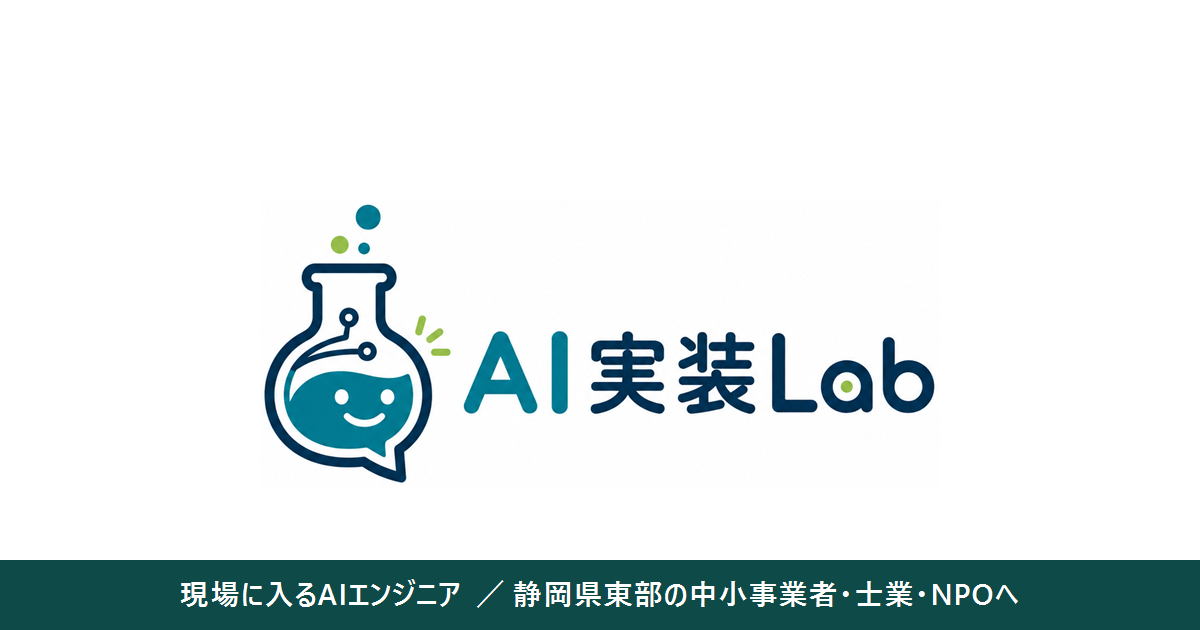
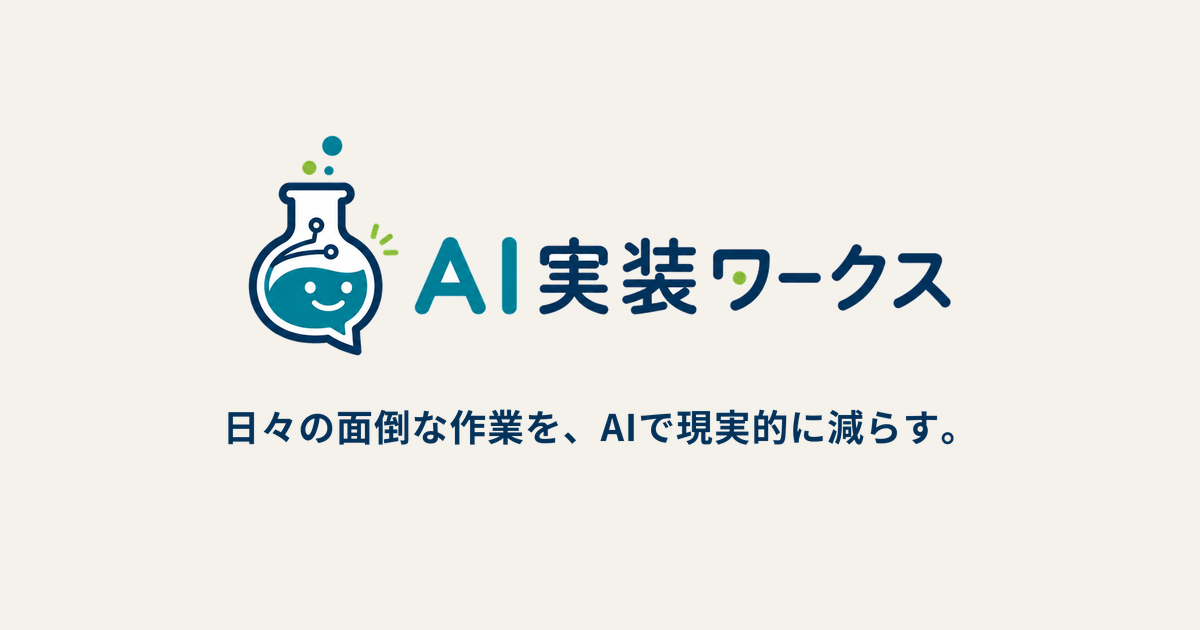
feat: 屋号をAI実装ワークスに変更、独自ドメインai.ss-po.com移行、新ロゴ組み込み

Changed region(s): [[0.185, 0.2111, 0.8017, 0.7841], [0.0, 0.8746, 1.0, 1.0]]

diff --git a/index.html b/index.html
@@ -3,15 +3,15 @@
 <head>
 <meta charset="UTF-8">
 <meta name="viewport" content="width=device-width, initial-scale=1.0">
-  <title>AI実装Lab｜数百万円だった専用システムを、手が届く値段で（静岡県東部）</title>
+  <title>AI実装ワークス｜数百万円だった専用システムを、手が届く値段で（静岡県東部）</title>
   <meta name="description" content="問い合わせ対応・予約受付・ホームページ、見積やメール作成まで。散らばった業務を整理し、あなたにちょうどのしくみに。これまで数百万円かかった専用システムも、AIで早く・安く。沼津をはじめとする静岡県東部の小さな会社・事務所・地域団体向け。">
   <meta name="google-site-verification" content="Ks7h_M3vuDzaMYysjTxfb04Es2Fv-enh5mPMZlBxzGc">
-  <link rel="canonical" href="https://tpsibelius-wq.github.io/ai-jisso-lab/">
+  <link rel="canonical" href="https://ai.ss-po.com/">
   <meta property="og:type" content="website">
-  <meta property="og:title" content="AI実装Lab｜数百万円だった専用システムを、手が届く値段で">
+  <meta property="og:title" content="AI実装ワークス｜数百万円だった専用システムを、手が届く値段で">
   <meta property="og:description" content="問い合わせ対応・予約受付・ホームページ、書類やメール作成まで。散らばった業務を整理し、あなたにちょうどのしくみを、AIで早く・安く。相談から実装まで、鈴木が担当します。">
-  <meta property="og:image" content="https://tpsibelius-wq.github.io/ai-jisso-lab/assets/ogp.png">
-  <meta property="og:url" content="https://tpsibelius-wq.github.io/ai-jisso-lab/">
+  <meta property="og:image" content="https://ai.ss-po.com/assets/ogp.png">
+  <meta property="og:url" content="https://ai.ss-po.com/">
   <meta name="twitter:card" content="summary_large_image">
   <link rel="icon" href="assets/logo-mark.png" type="image/png">
   <link rel="apple-touch-icon" href="assets/logo-mark.png">
@@ -425,7 +425,7 @@ a{color:inherit;text-decoration:none;}
   <aside class="side">
     <div class="side__top">
       <p class="side__tag">静岡県東部の中小企業・士業・NPOへ<br>現場に入るAIエンジニア</p>
-      <p class="side__brand"><img src="assets/logo-white-v2.png" alt="AI実装Lab" width="1133" height="478"></p>
+      <p class="side__brand"><img src="assets/logo-white-v2.png" alt="AI実装ワークス" width="1800" height="600"></p>
     </div>
     <div class="side__mid">
       <h1 class="side__lead"><span>数百万円だった</span><span>“専用システム”を、</span><span><span class="ac" style="display:inline">手が届く値段</span>で</span></h1>
@@ -554,7 +554,7 @@ a{color:inherit;text-decoration:none;}
           </div>
         </div>
         <div class="terms">
-          <p class="term"><b>保証</b>初回診断は、改善できる業務をご提示できなければ<strong>全額返金</strong>します（実施後14日以内のお申し出に限ります）。リスクを負うのは AI実装Lab 側です</p>
+          <p class="term"><b>保証</b>初回診断は、改善できる業務をご提示できなければ<strong>全額返金</strong>します（実施後14日以内のお申し出に限ります）。リスクを負うのは AI実装ワークス 側です</p>
           <p class="term"><b>上限</b>月次サポートは品質維持のため、<strong>同時5社まで</strong>としています。空き状況はお問い合わせください</p>
         </div>
         <p class="price__foot">料金はいずれも目安です。実際の料金は、業務の内容と規模をお聞きしてからご提示します。もっと大きな「専用システム」（複数業務をつなぐしくみ、ウェブ・アプリ開発など）も、規模に応じて個別にお見積りします</p>
@@ -572,7 +572,7 @@ a{color:inherit;text-decoration:none;}
       </div>
       <div class="sec__body">
         <table class="cmp">
-          <thead><tr><th>&#12288;</th><th>大手コンサル</th><th>受託開発・SES</th><th class="us">AI実装Lab</th></tr></thead>
+          <thead><tr><th>&#12288;</th><th>大手コンサル</th><th>受託開発・SES</th><th class="us">AI実装ワークス</th></tr></thead>
           <tbody>
             <tr><th>実装（コードを書く）</th><td><span class="mk">&#215;</span></td><td><span class="mk">&#9675;</span></td><td class="us"><span class="mk">&#9675;</span></td></tr>
             <tr><th>業務そのものの理解</th><td><span class="mk">&#9675;</span></td><td><span class="mk">&#9651;</span></td><td class="us"><span class="mk">&#9675;</span><span class="note">7年の実務経験</span></td></tr>
@@ -640,7 +640,7 @@ a{color:inherit;text-decoration:none;}
             <p class="lane__ti">LINEで質問する</p>
             <p class="lane__tx">日程を決める前に聞きたいことがあれば、友だち追加してそのままメッセージをどうぞ</p>
             <div class="lane__act">
-              <img class="lane__qr" src="https://qr-official.line.me/gs/M_207uazjc_GW.png?oat_content=qr" width="104" height="104" alt="AI実装Lab LINE友だち追加用QRコード">
+              <img class="lane__qr" src="https://qr-official.line.me/gs/M_207uazjc_GW.png?oat_content=qr" width="104" height="104" alt="AI実装ワークス LINE友だち追加用QRコード">
               <div>
                 <a class="lane__btn is-ghost" href="https://line.me/R/ti/p/@207uazjc" target="_blank" rel="noopener">友だち追加</a>
                 <p class="lane__hint">スマホの方はボタン、PCの方はQRコードを</p>
@@ -656,7 +656,7 @@ a{color:inherit;text-decoration:none;}
             <summary>03 ／ メールフォームで問い合わせる</summary>
             <p class="form__intro">予約やLINEが使いにくい場合は、こちらからでもご連絡いただけます。1〜2営業日以内にご返信します</p>
             <form class="form" action="https://formsubmit.co/shu.suzuki.numazu@ss-po.com" method="POST">
-              <input type="hidden" name="_subject" value="AI実装Lab サイトからのお問い合わせ">
+              <input type="hidden" name="_subject" value="AI実装ワークス サイトからのお問い合わせ">
               <input type="text" name="_honey" style="display:none;" tabindex="-1" autocomplete="off">
               <div class="field">
                 <label for="name">お名前<span class="req">必須</span></label>
@@ -688,7 +688,7 @@ a{color:inherit;text-decoration:none;}
     </section>
 
     <footer class="foot">
-      <p><img src="assets/logo-color-v2.png" alt="AI実装Lab" style="width:150px;height:auto;margin-bottom:.7rem">代表：鈴木 秀　／　静岡県沼津市　／　2026年5月開業</p>
+      <p><img src="assets/logo-color-v2.png" alt="AI実装ワークス" style="width:150px;height:auto;margin-bottom:.7rem">代表：鈴木 秀　／　静岡県沼津市　／　2026年5月開業</p>
       <p style="margin-top:.4rem">お問い合わせ：<a href="mailto:shu.suzuki.numazu@ss-po.com">shu.suzuki.numazu@ss-po.com</a>　／　<a href="privacy.html">プライバシーポリシー</a></p>
       <p style="margin-top:.8rem">写真：沼津の風景・制作物の画面は当方撮影／制作。一部の写真素材は StockSnap.io（CC0）</p>
     </footer>

diff --git a/privacy.html b/privacy.html
@@ -4,8 +4,8 @@
   <meta charset="UTF-8">
   <meta name="viewport" content="width=device-width, initial-scale=1.0">
 
-  <title>プライバシーポリシー｜AI実装Lab</title>
-  <meta name="description" content="AI実装Lab（代表 鈴木秀／静岡県沼津市）のプライバシーポリシー。お問い合わせフォームで取得する情報、利用目的、外部サービス、保存期間、開示・訂正・削除の請求方法を記載しています。">
+  <title>プライバシーポリシー｜AI実装ワークス</title>
+  <meta name="description" content="AI実装ワークス（代表 鈴木秀／静岡県沼津市）のプライバシーポリシー。お問い合わせフォームで取得する情報、利用目的、外部サービス、保存期間、開示・訂正・削除の請求方法を記載しています。">
   <meta name="robots" content="index, follow">
 
   <link rel="icon" href="assets/logo-mark.png" type="image/png">
@@ -22,10 +22,10 @@
 <!-- ============================ HEADER ============================ -->
 <header class="site-header">
   <div class="wrap site-header__inner">
-    <a class="brand" href="index.html" aria-label="AI実装Lab トップへ">
+    <a class="brand" href="index.html" aria-label="AI実装ワークス トップへ">
       <img class="brand__mark" src="assets/logo-mark.png" width="34" height="34" alt="" aria-hidden="true">
       <span>
-        <span class="brand__name">AI実装Lab</span>
+        <span class="brand__name">AI実装ワークス</span>
         <span class="brand__tag">Forward Deployed Engineer<span class="brand__tag-jp">現場に入るAIエンジニア</span></span>
       </span>
     </a>
@@ -39,7 +39,7 @@
     <p class="eyebrow">Privacy Policy</p>
     <h2 class="section-title">プライバシーポリシー</h2>
     <p class="section-lead">
-      AI実装Lab（以下「当方」）は、お問い合わせフォーム等でお預かりする個人情報を、以下の方針に基づいて取り扱います。
+      AI実装ワークス（以下「当方」）は、お問い合わせフォーム等でお預かりする個人情報を、以下の方針に基づいて取り扱います。
     </p>
 
     <div class="legal">
@@ -47,7 +47,7 @@
       <section>
         <h2>1. 事業者情報</h2>
         <ul>
-          <li>名称：AI実装Lab（代表 鈴木 秀）</li>
+          <li>名称：AI実装ワークス（代表 鈴木 秀）</li>
           <li>所在地：静岡県沼津市</li>
           <li>連絡先：<a href="mailto:shu.suzuki.numazu@ss-po.com">shu.suzuki.numazu@ss-po.com</a></li>
         </ul>
@@ -115,7 +115,7 @@
 
     <p class="legal__meta">
       制定日：2026年7月20日<br>
-      AI実装Lab（代表 鈴木 秀）
+      AI実装ワークス（代表 鈴木 秀）
     </p>
 
     <p class="legal-back">
@@ -131,9 +131,9 @@
     <div class="footer-meta">
       代表：<strong>鈴木 秀</strong>　／　静岡県沼津市<br>
       お問い合わせ：<a href="mailto:shu.suzuki.numazu@ss-po.com">shu.suzuki.numazu@ss-po.com</a><br>
-      <a href="index.html">AI実装Lab トップへ</a>
+      <a href="index.html">AI実装ワークス トップへ</a>
     </div>
-    <p class="footer-legal">© 2026 AI実装Lab — Forward Deployed Engineer for small teams in Eastern Shizuoka.</p>
+    <p class="footer-legal">© 2026 AI実装ワークス — Forward Deployed Engineer for small teams in Eastern Shizuoka.</p>
   </div>
 </footer>
 

diff --git a/styles.css b/styles.css
@@ -1,5 +1,5 @@
 /* =========================================================================
-   AI実装Lab — Landing Page Styles
+   AI実装ワークス — Landing Page Styles
    Aesthetic: Japanese BtoB trust LP — white base, deep teal bands for
    hero / final CTA / footer, hairline rules, restrained single-step shadows.
    ========================================================================= */

diff --git a/README.md b/README.md
@@ -1,6 +1,6 @@
-# AI実装Lab ランディングページ
+# AI実装ワークス ランディングページ
 
-静岡県東部の中小事業者・士業・NPO向け、個人事業主「AI実装Lab」の1ページ静的LP。
+静岡県東部の中小事業者・士業・NPO向け、個人事業主「AI実装ワークス」（旧称 AI実装Lab、2026-09改名）の1ページ静的LP。公開URL: https://ai.ss-po.com/
 紹介を受けた人が、事業内容・実績・料金・代表者情報を確認するための「受け皿」です。
 
 ## ファイル構成
